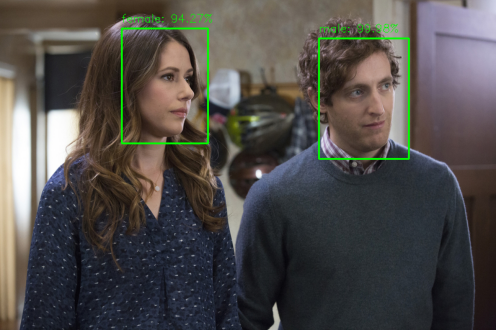
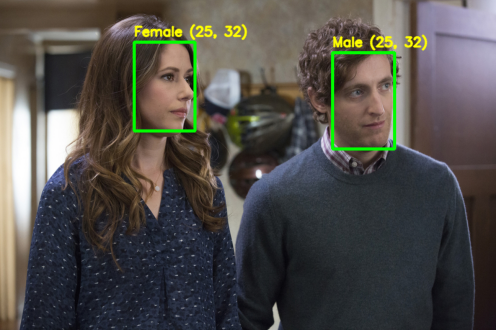
added script for age and gender

Changed region(s): [[0.6351, 0.0606, 0.877, 0.4848], [0.2419, 0.0303, 0.5141, 0.4545]]

diff --git a/deeppixel/face_rec/Age_and_gender_detection/AgeAndGenderImage.py b/deeppixel/face_rec/Age_and_gender_detection/AgeAndGenderImage.py
@@ -1,0 +1,105 @@
+from glob import glob 
+import cv2
+import numpy as np 
+import argparse
+import matplotlib.pyplot as plt
+import os
+
+MODEL_MEAN_VALUES = (78.4263377603, 87.7689143744, 114.895847746)
+age_list = ['(0, 2)', '(4, 6)', '(8, 12)', '(15, 20)', '(25, 32)', '(38, 43)', '(48, 53)', '(60, 100)']
+gender_list = ['Male', 'Female']
+
+def load_caffe_models():
+    face_net = cv2.dnn.readNet('opencv_face_detector.pbtxt', 'opencv_face_detector_uint8.pb')
+    age_net = cv2.dnn.readNet('deploy_age.prototxt', 'age_net.caffemodel')
+    gender_net = cv2.dnn.readNet('deploy_gender.prototxt', 'gender_net.caffemodel')
+    return face_net, age_net, gender_net
+
+def highlightFace(net, frame, conf_threshold=0.7):
+    frameOpencvDnn=frame.copy()
+    frameHeight=frameOpencvDnn.shape[0]
+    frameWidth=frameOpencvDnn.shape[1]
+    blob=cv2.dnn.blobFromImage(frameOpencvDnn, 1.0, (300, 300), [104, 117, 123], True, False)
+
+    net.setInput(blob)
+    detections=net.forward()
+    faceBoxes=[]
+    for i in range(detections.shape[2]):
+        confidence=detections[0,0,i,2]
+        if confidence>conf_threshold:
+            x1=int(detections[0,0,i,3]*frameWidth)
+            y1=int(detections[0,0,i,4]*frameHeight)
+            x2=int(detections[0,0,i,5]*frameWidth)
+            y2=int(detections[0,0,i,6]*frameHeight)
+            faceBoxes.append([x1,y1,x2,y2])
+            cv2.rectangle(frameOpencvDnn, (x1,y1), (x2,y2), (0,255,0), int(round(frameHeight/150)), 8)
+    return frameOpencvDnn,faceBoxes
+
+def loadImage(img_path):
+	# image loading
+	img = cv2.imread(img_path)
+	return img
+
+
+def imageAgeAndGenderDetection(img_path, output_folder): 
+
+	face_net, age_net, gender_net = load_caffe_models()
+
+	image = loadImage(img_path)
+
+	padding=20
+	resultImg,faceBoxes = highlightFace(face_net,image)
+
+	if not faceBoxes:
+	    print("No face detected")
+
+	else:
+	    print("Found {} faces".format(str(len(faceBoxes))))
+
+
+	for faceBox in faceBoxes:
+	    face=image[max(0,faceBox[1]-padding):
+	               min(faceBox[3]+padding,image.shape[0]-1),max(0,faceBox[0]-padding)
+	               :min(faceBox[2]+padding, image.shape[1]-1)]
+
+	    blob=cv2.dnn.blobFromImage(face, 1.0, (227,227), MODEL_MEAN_VALUES, swapRB=False)
+
+	    #Predict Gender
+	    gender_net.setInput(blob)
+	    gender_preds=gender_net.forward()
+	    gender=gender_list[gender_preds[0].argmax()]
+	    print("Gender : " + gender)
+
+	    #Predict Age
+	    age_net.setInput(blob)
+	    age_preds = age_net.forward()
+	    age = age_list[age_preds[0].argmax()]
+	    print("Age Range: " + age)
+	    overlay_text = "%s %s" % (gender, age)
+	    cv2.putText(resultImg, overlay_text, (faceBox[0], faceBox[1]-10), cv2.FONT_HERSHEY_SIMPLEX, .7, (0, 255, 255), 2, cv2.LINE_AA)
+
+	
+	#convert to RGB
+	img = cv2.cvtColor(resultImg, cv2.COLOR_BGR2RGB)
+	
+	#Save the image to output folder
+	if output_folder:
+		input_filename, ext = os.path.splitext(os.path.basename(img_path))
+		filename = os.path.join(output_folder, input_filename.format(ext))
+		fig = plt.figure() 
+		plt.imshow(img) 
+		plt.axis("off")
+		plt.savefig(filename,bbox_inches = 'tight', pad_inches = 0)
+		plt.close(fig)
+
+def main():
+	parser = argparse.ArgumentParser()
+	parser.add_argument('-i', '--img_path', type=str, help='Path to the input image')
+	parser.add_argument('-o', '--output_folder', type=str, default=None, help='Path where the output image will be stored')
+	args = parser.parse_args() 
+	imageAgeAndGenderDetection(args.img_path, args.output_folder) 
+	os._exit(0)
+
+
+if __name__ == '__main__': 
+    main()

diff --git a/deeppixel/face_rec/Age_and_gender_detection/AgeAndGenderVideo.py b/deeppixel/face_rec/Age_and_gender_detection/AgeAndGenderVideo.py
@@ -1,0 +1,95 @@
+from glob import glob 
+import cv2
+import numpy as np 
+import argparse
+import matplotlib.pyplot as plt
+import os
+
+MODEL_MEAN_VALUES = (78.4263377603, 87.7689143744, 114.895847746)
+age_list = ['(0, 2)', '(4, 6)', '(8, 12)', '(15, 20)', '(25, 32)', '(38, 43)', '(48, 53)', '(60, 100)']
+gender_list = ['Male', 'Female']
+
+def load_caffe_models():
+    face_net = cv2.dnn.readNet('opencv_face_detector.pbtxt', 'opencv_face_detector_uint8.pb')
+    age_net = cv2.dnn.readNet('deploy_age.prototxt', 'age_net.caffemodel')
+    gender_net = cv2.dnn.readNet('deploy_gender.prototxt', 'gender_net.caffemodel')
+    return face_net, age_net, gender_net
+
+def highlightFace(net, frame, conf_threshold=0.7):
+    frameOpencvDnn=frame.copy()
+    frameHeight=frameOpencvDnn.shape[0]
+    frameWidth=frameOpencvDnn.shape[1]
+    blob=cv2.dnn.blobFromImage(frameOpencvDnn, 1.0, (300, 300), [104, 117, 123], True, False)
+
+    net.setInput(blob)
+    detections=net.forward()
+    faceBoxes=[]
+    for i in range(detections.shape[2]):
+        confidence=detections[0,0,i,2]
+        if confidence>conf_threshold:
+            x1=int(detections[0,0,i,3]*frameWidth)
+            y1=int(detections[0,0,i,4]*frameHeight)
+            x2=int(detections[0,0,i,5]*frameWidth)
+            y2=int(detections[0,0,i,6]*frameHeight)
+            faceBoxes.append([x1,y1,x2,y2])
+            cv2.rectangle(frameOpencvDnn, (x1,y1), (x2,y2), (0,255,0), int(round(frameHeight/150)), 8)
+    return frameOpencvDnn,faceBoxes
+
+
+
+def videoAgeAndGenderDetection(video_path): 
+
+	face_net, age_net, gender_net = load_caffe_models()
+
+	cap = cv2.VideoCapture(video_path)
+	
+	padding=20
+	while cv2.waitKey(1)<0:
+		hasFrame,frame=cap.read()
+		if not hasFrame:
+			ch = cv2.waitKey(1)
+			if ch == 27 or ch == ord('q') or ch == ord('Q'):
+				break
+
+		resultImg,faceBoxes = highlightFace(face_net,frame)
+
+		for faceBox in faceBoxes:
+		    face=frame[max(0,faceBox[1]-padding):
+		               min(faceBox[3]+padding,frame.shape[0]-1),max(0,faceBox[0]-padding)
+		               :min(faceBox[2]+padding, frame.shape[1]-1)]
+
+		    blob=cv2.dnn.blobFromImage(face, 1.0, (227,227), MODEL_MEAN_VALUES, swapRB=False)
+
+		    #Predict Gender
+		    gender_net.setInput(blob)
+		    gender_preds=gender_net.forward()
+		    gender=gender_list[gender_preds[0].argmax()]
+		    print("Gender : " + gender)
+
+		    #Predict Age
+		    age_net.setInput(blob)
+		    age_preds = age_net.forward()
+		    age = age_list[age_preds[0].argmax()]
+		    print("Age Range: " + age)
+		    overlay_text = "%s %s" % (gender, age)
+		    cv2.putText(resultImg, overlay_text, (faceBox[0], faceBox[1]-10), cv2.FONT_HERSHEY_SIMPLEX, .7, (0, 255, 255), 2, cv2.LINE_AA)
+
+		cv2.imshow("Video", resultImg)
+		# Quits when 'Q' or 'q' or 'esc' is pressed 
+		ch = cv2.waitKey(1)
+		if ch == 27 or ch == ord('q') or ch == ord('Q'):
+		    break
+
+	cap.release()
+	cv2.destroyAllWindows()
+	
+def main():
+	parser = argparse.ArgumentParser()
+	parser.add_argument('-v', '--video_path', type=str, help='Path to the input video')
+	args = parser.parse_args() 
+	videoAgeAndGenderDetection(args.video_path) 
+	os._exit(0)
+
+
+if __name__ == '__main__': 
+    main()

diff --git a/deeppixel/face_rec/Age_and_gender_detection/AgeAndGenderWebcam.py b/deeppixel/face_rec/Age_and_gender_detection/AgeAndGenderWebcam.py
@@ -1,0 +1,86 @@
+from glob import glob 
+import cv2
+import numpy as np 
+import argparse
+import matplotlib.pyplot as plt
+import os
+from imutils.video import WebcamVideoStream
+
+MODEL_MEAN_VALUES = (78.4263377603, 87.7689143744, 114.895847746)
+age_list = ['(0, 2)', '(4, 6)', '(8, 12)', '(15, 20)', '(25, 32)', '(38, 43)', '(48, 53)', '(60, 100)']
+gender_list = ['Male', 'Female']
+
+def load_caffe_models():
+    face_net = cv2.dnn.readNet('opencv_face_detector.pbtxt', 'opencv_face_detector_uint8.pb')
+    age_net = cv2.dnn.readNet('deploy_age.prototxt', 'age_net.caffemodel')
+    gender_net = cv2.dnn.readNet('deploy_gender.prototxt', 'gender_net.caffemodel')
+    return face_net, age_net, gender_net
+
+def highlightFace(net, frame, conf_threshold=0.7):
+    frameOpencvDnn=frame.copy()
+    frameHeight=frameOpencvDnn.shape[0]
+    frameWidth=frameOpencvDnn.shape[1]
+    blob=cv2.dnn.blobFromImage(frameOpencvDnn, 1.0, (300, 300), [104, 117, 123], True, False)
+
+    net.setInput(blob)
+    detections=net.forward()
+    faceBoxes=[]
+    for i in range(detections.shape[2]):
+        confidence=detections[0,0,i,2]
+        if confidence>conf_threshold:
+            x1=int(detections[0,0,i,3]*frameWidth)
+            y1=int(detections[0,0,i,4]*frameHeight)
+            x2=int(detections[0,0,i,5]*frameWidth)
+            y2=int(detections[0,0,i,6]*frameHeight)
+            faceBoxes.append([x1,y1,x2,y2])
+            cv2.rectangle(frameOpencvDnn, (x1,y1), (x2,y2), (0,255,0), int(round(frameHeight/150)), 8)
+    return frameOpencvDnn,faceBoxes
+
+
+def webcamAgeAndGenderDetection(): 
+
+	face_net, age_net, gender_net = load_caffe_models()
+	video_capture = WebcamVideoStream(src=0).start()
+	# image = loadImage(img_path)
+	while True:
+		padding=20
+		frame = video_capture.read()
+		resultImg,faceBoxes = highlightFace(face_net,frame)
+
+
+		for faceBox in faceBoxes:
+		    face=frame[max(0,faceBox[1]-padding):
+		               min(faceBox[3]+padding,frame.shape[0]-1),max(0,faceBox[0]-padding)
+		               :min(faceBox[2]+padding, frame.shape[1]-1)]
+
+		    blob=cv2.dnn.blobFromImage(face, 1.0, (227,227), MODEL_MEAN_VALUES, swapRB=False)
+
+		    #Predict Gender
+		    gender_net.setInput(blob)
+		    gender_preds=gender_net.forward()
+		    gender=gender_list[gender_preds[0].argmax()]
+
+		    #Predict Age
+		    age_net.setInput(blob)
+		    age_preds = age_net.forward()
+		    age = age_list[age_preds[0].argmax()]
+		    overlay_text = "%s %s" % (gender, age)
+		    cv2.putText(resultImg, overlay_text, (faceBox[0], faceBox[1]-10), cv2.FONT_HERSHEY_SIMPLEX, .7, (0, 255, 255), 2, cv2.LINE_AA)
+
+
+		cv2.imshow("Video", resultImg)
+		# Quits when 'Q' or 'q' or 'esc' is pressed 
+		ch = cv2.waitKey(1)
+		if ch == 27 or ch == ord('q') or ch == ord('Q'):
+		    break
+
+	video_capture.stop()
+	cv2.destroyAllWindows() 
+
+def main(): 
+	webcamAgeAndGenderDetection() 
+	os._exit(0)
+
+
+if __name__ == '__main__': 
+    main()

diff --git a/deeppixel/face_rec/Age_and_gender_detection/README.md b/deeppixel/face_rec/Age_and_gender_detection/README.md
@@ -13,6 +13,51 @@ We have done as follow:
 2. Classification into Male/Female
 3. Classification into one of the age group
 
+### Steps:
+1) Clone this repository:
+```
+git clone https://github.com/smaranjitghose/DeepPixel
+```
+
+2) Navigate to the directory deeppixel/face_rec/Age_and_gender_detection
+
+
+#### For Age And Gender Detection in Image
+
+3) Run the AgeAndGenderImage.py file with command:
+
+```
+python AgeAndGenderImage.py -i [IMAGE_PATH] -o [OUTPUT_FOLDER]
+
+```
+> for example
+```
+python AgeAndGenderImage.py -i asset/input/woman.jpeg -o asset/output/ 
+```
+This will save the image with faces marked and labeled with age and gender in the output folder path provided.
+
+
+#### For Object Detection using Webcam
+*prerequisites:* Webcam
+
+3) Run the AgeAndGenderWebcam.py  file with command:
+
+```
+python AgeAndGenderWebcam.py 
+```
+
+This will open the webcam and label the detected faces with gender and age
+
+#### For Object Detection in Video
+
+3) Run the AgeAndGenderVideo.py file with command:
+
+```
+python AgeAndGenderVideo.py -v [VIDEO_PATH]
+
+```
+
+This will open the video and label the detected faces with gender and age 
 
 ### References
 
